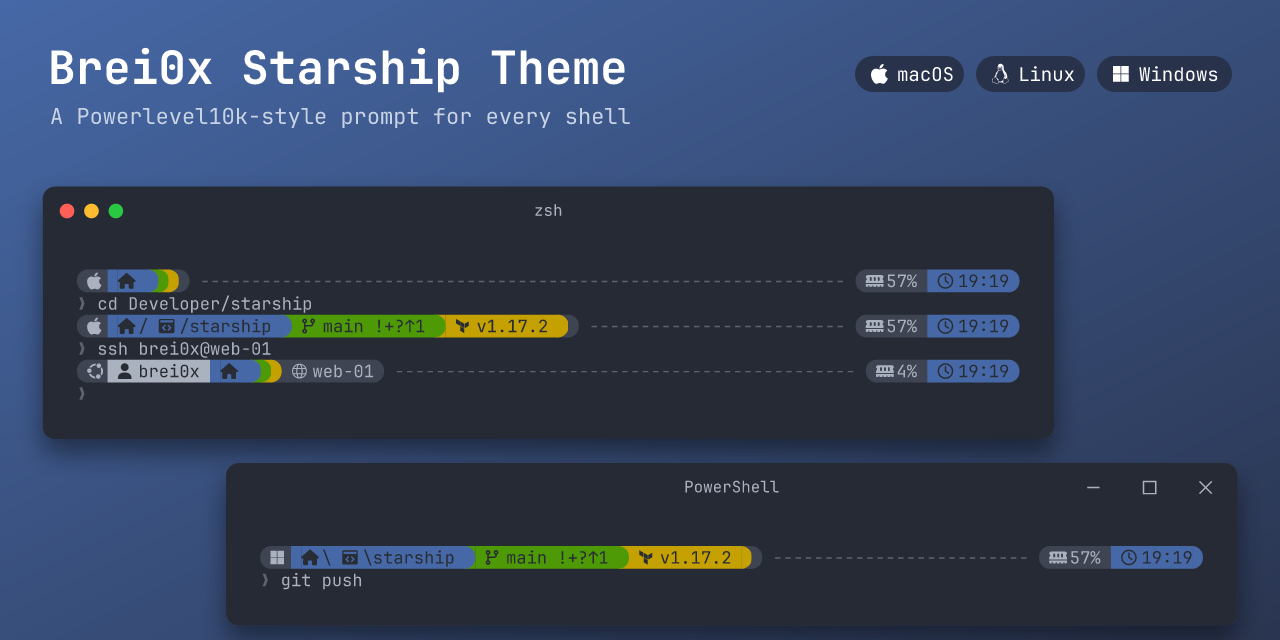
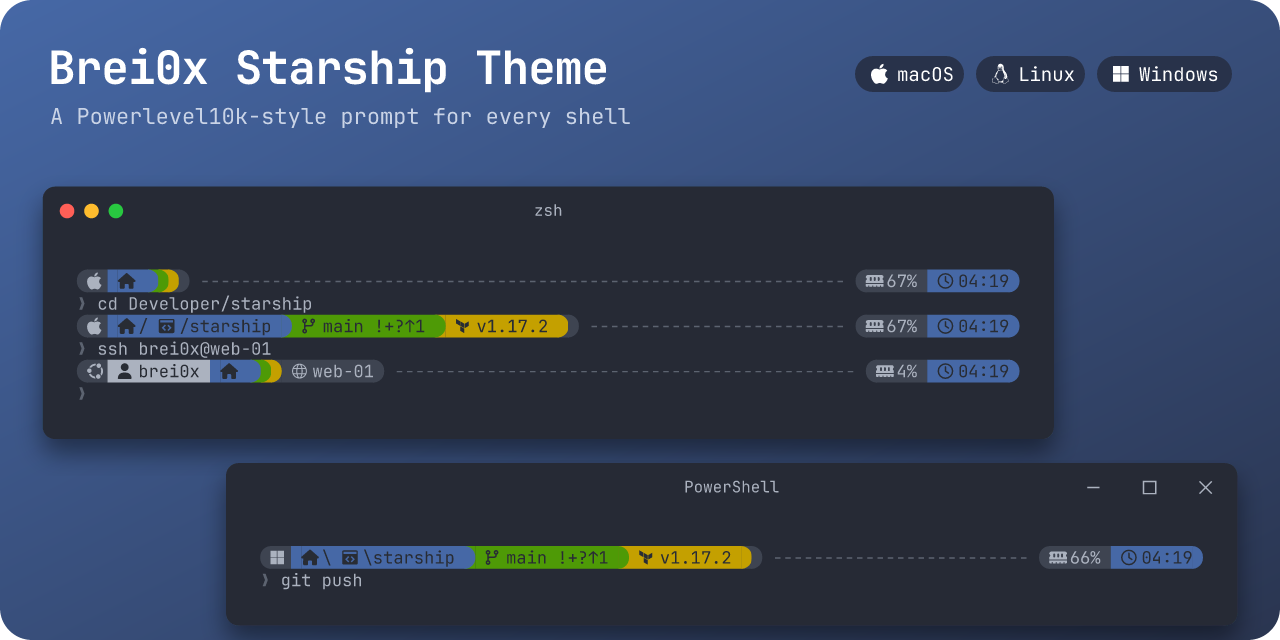
feat(screenshots): round the corners of the social preview

diff --git a/scripts/social-preview.py b/scripts/social-preview.py
@@ -8,6 +8,9 @@ import re
 from xml.sax.saxutils import escape
 
 WIDTH, HEIGHT = 1280, 640
+RADIUS = WIDTH // 40  # rounded transparent corners, 2.5 % of the width
+TITLE_SIZE = 46
+TITLE_TRACKING = -0.02 * TITLE_SIZE  # display size wants negative tracking
 SCALE = 1.22  # terminal windows, so the prompt stays legible when the card is shown at half size
 GRADIENT = ("#4668a6", "#2a3550")  # palette blue to a darker navy
 TITLE, SUBTITLE = "Brei0x Starship Theme", "A Powerlevel10k-style prompt for every shell"
@@ -61,14 +64,17 @@ def main() -> None:
     windows = nest(win_svg, win_w, win_h, WIDTH - win_w * SCALE - 6, HEIGHT - win_h * SCALE + 22)
     print('<svg xmlns="http://www.w3.org/2000/svg" width="%d" height="%d" viewBox="0 0 %d %d">' % (WIDTH, HEIGHT, WIDTH, HEIGHT))
     print('<defs><linearGradient id="bg" x1="0" y1="0" x2="1" y2="1">'
-          '<stop offset="0" stop-color="%s"/><stop offset="1" stop-color="%s"/></linearGradient></defs>' % GRADIENT)
+          '<stop offset="0" stop-color="%s"/><stop offset="1" stop-color="%s"/></linearGradient>' % GRADIENT
+          + '<clipPath id="card"><rect width="%d" height="%d" rx="%d"/></clipPath></defs>' % (WIDTH, HEIGHT, RADIUS))
+    print('<g clip-path="url(#card)">')
     print('<rect width="%d" height="%d" fill="url(#bg)"/>' % (WIDTH, HEIGHT))
-    print('<text x="48" y="84" font-family="%s" font-size="46" font-weight="700" fill="%s">%s</text>' % (font, INK, escape(TITLE)))
+    print('<text x="48" y="84" font-family="%s" font-size="%d" font-weight="700" letter-spacing="%.2f" fill="%s">%s</text>'
+          % (font, TITLE_SIZE, TITLE_TRACKING, INK, escape(TITLE)))
     print('<text x="50" y="124" font-family="%s" font-size="22" fill="%s">%s</text>' % (font, SOFT_INK, escape(SUBTITLE)))
     print(badges(args.font, WIDTH - 48 - sum(badge_width(label) + 12 for _, label in BADGES) + 12, 56))
     print(mac)
     print(windows)
-    print("</svg>")
+    print("</g></svg>")
 
 
 if __name__ == "__main__":
